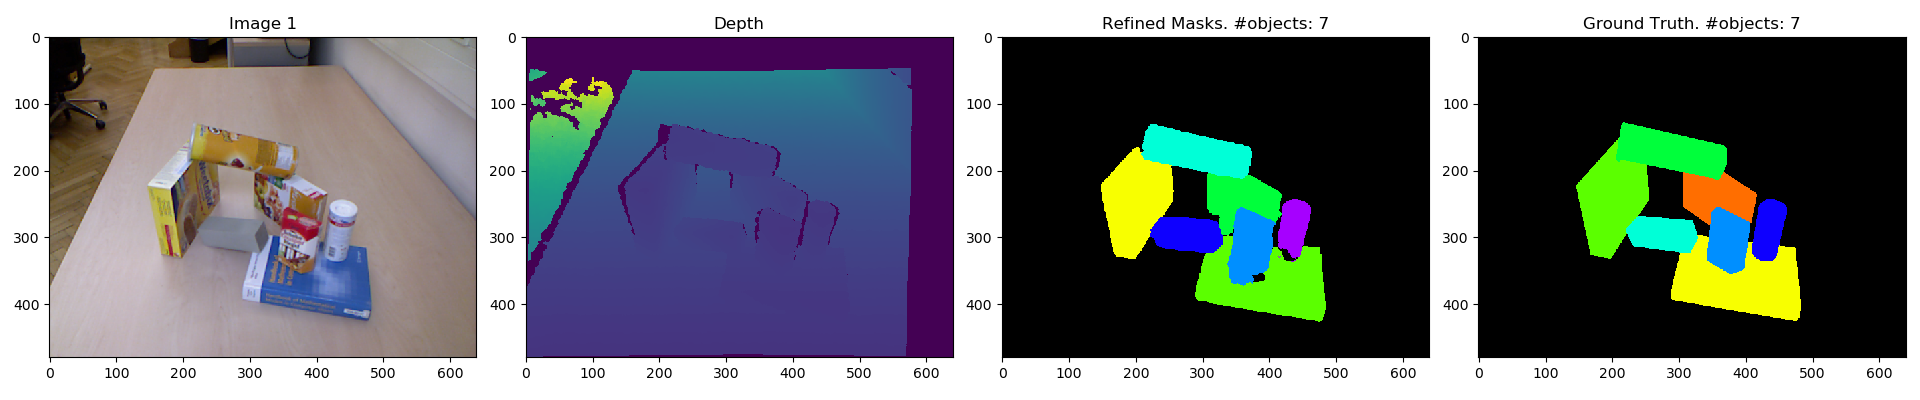
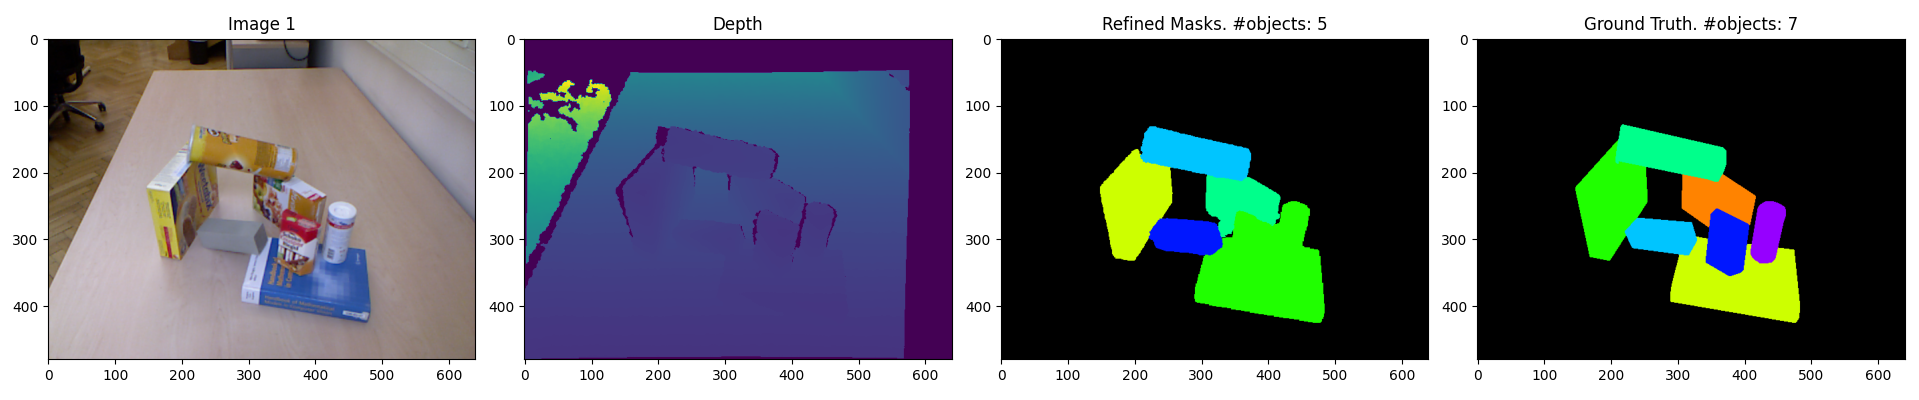
Update Docker file and requirements.txt. Update main README and add additional README instruction files

diff --git a/README.md b/README.md
@@ -15,7 +15,7 @@ This project uses Docker with NVIDIA GPU support for ROS1 Noetic development.
 
 ### Building the Docker Image
 
-1. **Build the ROS1 Melodic image:**
+1. **Build the ROS1 Noetic image:**
    ```bash
    chmod +x ./docker/build_image.sh
    ./docker/build_image.sh
@@ -123,37 +123,12 @@ Start
 ```
 
 ## Unseen Object Instance Segmentation
-To use the instance segmentation module, the following steps must be executed:
+To use the instance segmentation module, follow the instructions given inside the following [`README.md`](./obj_manipulation/segment/models/README.md) to download its pre-trained weights.
+Then, follow the instructions inside the following [`README.md`](./tests/segment/examples/README.md) to verify that it works as expected.
 
-1. Create a `models` directory inside the segmentation module: 
-```bash
-cd /catkin_ws/src/obj_manipulation
-mkdir mkdir obj_manipulation/segment/models
-```
-
-2. Download the trained models' weights from [here](https://drive.google.com/drive/folders/1_rh8EcGW7P9Vo4pw2w09rKpbWrmR3CKu?usp=sharing) and place them inside the `models` directory.
-
-To test that the module works as expected, the following steps should be followed:
-
-1. Create an `examples` directory inside the segmentation tests directory:
-```bash
-cd /catkin_ws/src/obj_manipulation
-mkdir tests/segment/examples
-```
-
-2. Download the provided examples from [here](https://drive.google.com/drive/folders/1UYn42QL-Wj7qFGC36wFlUS30bvaxTsgK?usp=sharing) and place them inside the `examples` directory.
-
-3. Run the following test script for instance segmentation:
-```bash
-cd /catkin_ws/src/obj_manipulation
-python3 tests/segment/segmentation_test.py
-```
-
-The following figure represents a sample of the expected results:
-<p align="center">
-  <img src="images/InstanceSegmentation1.png" alt="Inst. Seg. Example 1" height="200"/>
-  <img src="images/InstanceSegmentation2.png" alt="Inst. Seg. Example 1" height="200"/>
-</p>
+## Grasp Estimation using Contact-GraspNet
+Similar to the instance segmentation module, follow the instructions given inside the following [`README.md`](./obj_manipulation/grasp/models/README.md) to download its pre-trained weights.
+Then, follow the instructions inside the following [`README.md`](./tests/grasp/examples/README.md) to verify that it works as expected.
 
 ## Troubleshooting
 - If RViz/MoveIt cannot load gripper meshes like `package://dh_robotics_ag95_model/...`:

diff --git a/tests/grasp/examples/README.md b/tests/grasp/examples/README.md
@@ -1,0 +1,54 @@
+# Download Examples
+
+You can download the test examples for the grasp estimation module from the following [link](https://drive.google.com/drive/folders/1AtZvhrpF-UjZ15r1o7QjC5r1mnE5miKG?usp=sharing).
+Download all files and place them inside this `examples` directory.
+
+
+# Run Test
+
+Firstly, make sure that you have already downloaded the grasp estimation module's pre-trained weights or have trained it yourself and saved its weights. 
+To download the pre-trained weights, follow the insturctions given in the following [`README.md`](../../../obj_manipulation/grasp/models/README.md) file.
+
+Additionally, since grasp estimation relies on instance segmentation, you must first ensure that the instance segmentation module works as expected.
+To do this, follow the instructions given in the following [`README.md`](../../segment/examples/README.md) file.
+
+Although not neccesary, you can run the following script to see how the scene is segmented and extracted local point cloud that is to be used for grasp predicition.
+
+```bash
+# Setup ROS package environment variables
+cd /catkin_ws
+catkin_make
+source devel/setup.bash
+
+# Run test script
+cd /catkin_ws/src/obj_manipulation
+python3 tests/grasp/pc_filter_test.py -f 0.npy
+```
+
+Then, you can run the following grasp estimation test script to ensure that the model works as expected.
+
+```bash
+# Setup ROS package environment variables
+cd /catkin_ws
+catkin_make
+source devel/setup.bash
+
+# Run test script
+cd /catkin_ws/src/obj_manipulation
+python3 tests/grasp/grasp_test.py -f 0.npy
+```
+
+# Expected Results
+
+The following figure represents the expected segmentation and object selection results from the `pc_filter_test.py` test script.
+<p align="center">
+  <img src="../../../images/PointCloudFilter1.png" alt="Instance Segmentation" height="200"/>
+  <img src="../../../images/PointCloudFilter2.png" alt="Object Selection" height="200"/>
+</p>
+
+Lastly, the following figure showcases the expected grasp estimation results from the `grasp_test.py` test script.
+The colors of the shown grasps represent their predicted success probabilities.
+All grasps are shown with a fixed grasp width set to the gripper's width.
+<p align="center">
+  <img src="../../../images/GraspEstimation.png" alt="Grasp Estimation" height="200"/>
+</p>

diff --git a/tests/segment/examples/README.md b/tests/segment/examples/README.md
@@ -1,0 +1,35 @@
+# Download Examples
+
+You can download the test examples for the instance segmentation module from the following [link](https://drive.google.com/drive/folders/1UYn42QL-Wj7qFGC36wFlUS30bvaxTsgK?usp=sharing). 
+Download all files and place them inside this `examples` directory.
+
+
+# Run Test
+
+Firstly, make sure that you have already downloaded the instance segmentation module's pre-trained weights or have trained it yourself and saved its weights. 
+To download the pre-trained weights, follow the insturctions given in the following [`README.md`](../../../obj_manipulation/segment/models/README.md) file. 
+
+Then, you can run the following instance segmentation test script to ensure that the model works as expected.
+
+```bash
+# Setup ROS package environment variables
+cd /catkin_ws
+catkin_make
+source devel/setup.bash
+
+# Run test script
+cd /catkin_ws/src/obj_manipulation
+python3 tests/segment/segmentation_test.py
+```
+
+# Expected Results
+
+The following figure represents a sample of the expected results.
+<p align="center">
+  <img src="../../../images/InstanceSegmentation1.png" alt="Inst. Seg. Example 1" height="200"/>
+  <img src="../../../images/InstanceSegmentation2.png" alt="Inst. Seg. Example 1" height="200"/>
+</p>
+
+**Note**: These results are not identical to the original implementation only because we make use of a slightly different configuration. 
+Our configuration is more suited towards larger objects and less cluttered scenes. 
+If the same configuration from the original implementation is used instead, the output segmentation masks are identical to their original counterparts.

diff --git a/obj_manipulation/segment/models/README.md b/obj_manipulation/segment/models/README.md
@@ -1,0 +1,21 @@
+# Download Model
+
+You can download the pre-trained model's weights from the following [link](https://drive.google.com/drive/folders/1_rh8EcGW7P9Vo4pw2w09rKpbWrmR3CKu?usp=sharing). 
+Download the files named `DSN.pth` and `RRN.pth` and place them inside this directory.
+
+
+# Load Weights
+
+The implemented `InstanceSegmentationFull` class automatically handles loading both models' weights. 
+To load the instance segmentation model's weights, only the `load()` method needs to be invoked as shown in the following example:
+
+```python
+from obj_manipulation.segment import InstanceSegmentationFull
+
+# Load instance segmentation module's configuration
+config = ...
+
+# Initialize instance segmentation module and load its weights
+ins_seg = InstanceSegmentationFull(config)
+ins_seg.load()
+```

diff --git a/obj_manipulation/grasp/models/README.md b/obj_manipulation/grasp/models/README.md
@@ -1,0 +1,21 @@
+# Download Model
+
+You can download the pre-trained model's weights from the following [link](https://drive.google.com/drive/folders/1Abd8qyra9jJt35ex5rjQAGsg3ZVPG67b?usp=sharing). 
+Download the file named `CGN.pt` and place it inside this directory.
+
+
+# Load Weights
+
+The implemented `GraspEstimatorCGN` class automatically handles loading model weights. 
+To load the grasp estimator model's weights, only the `load()` method needs to be invoked as shown in the following example:
+
+```python
+from obj_manipulation.grasp import GraspEstimatorCGN
+
+# Load grasp estimator's configuration
+config = ...
+
+# Initialize grasp estimator and load its pre-trained weights 
+grasp_est = GraspEstimatorCGN(config)
+grasp_est.load()
+```
